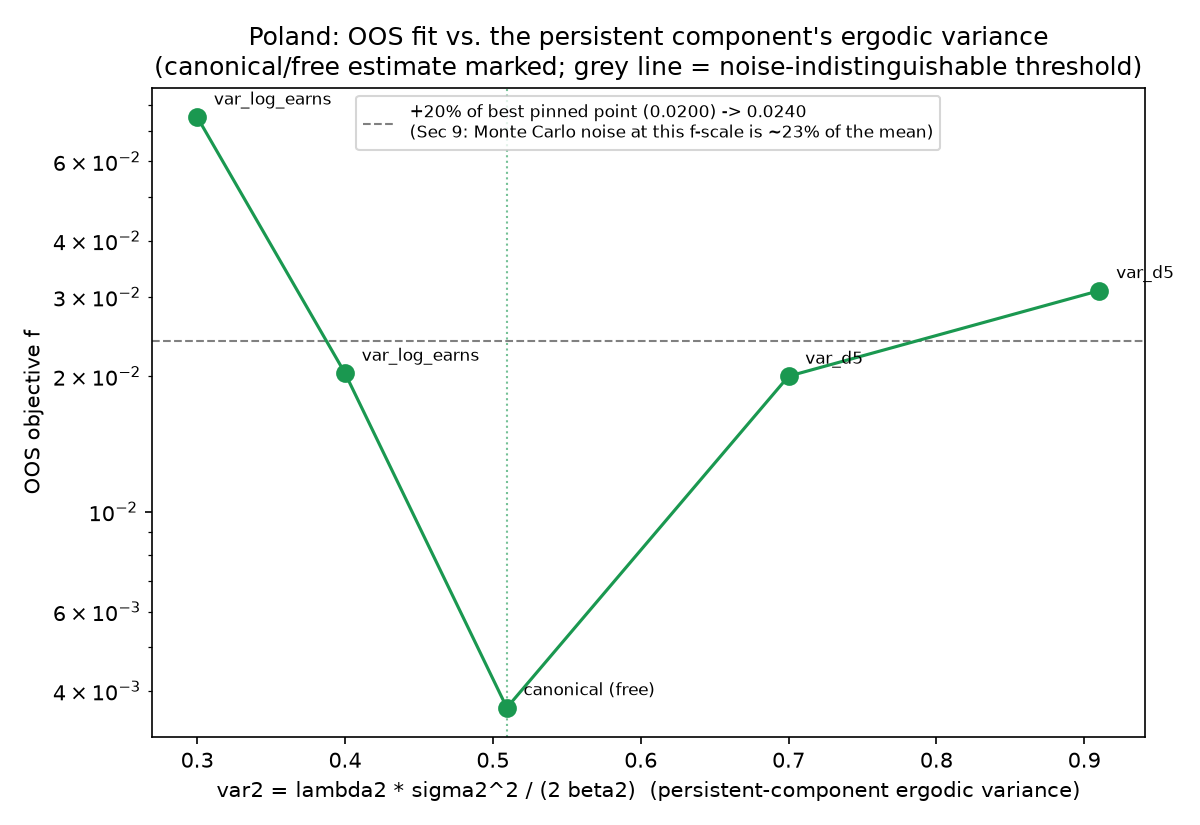
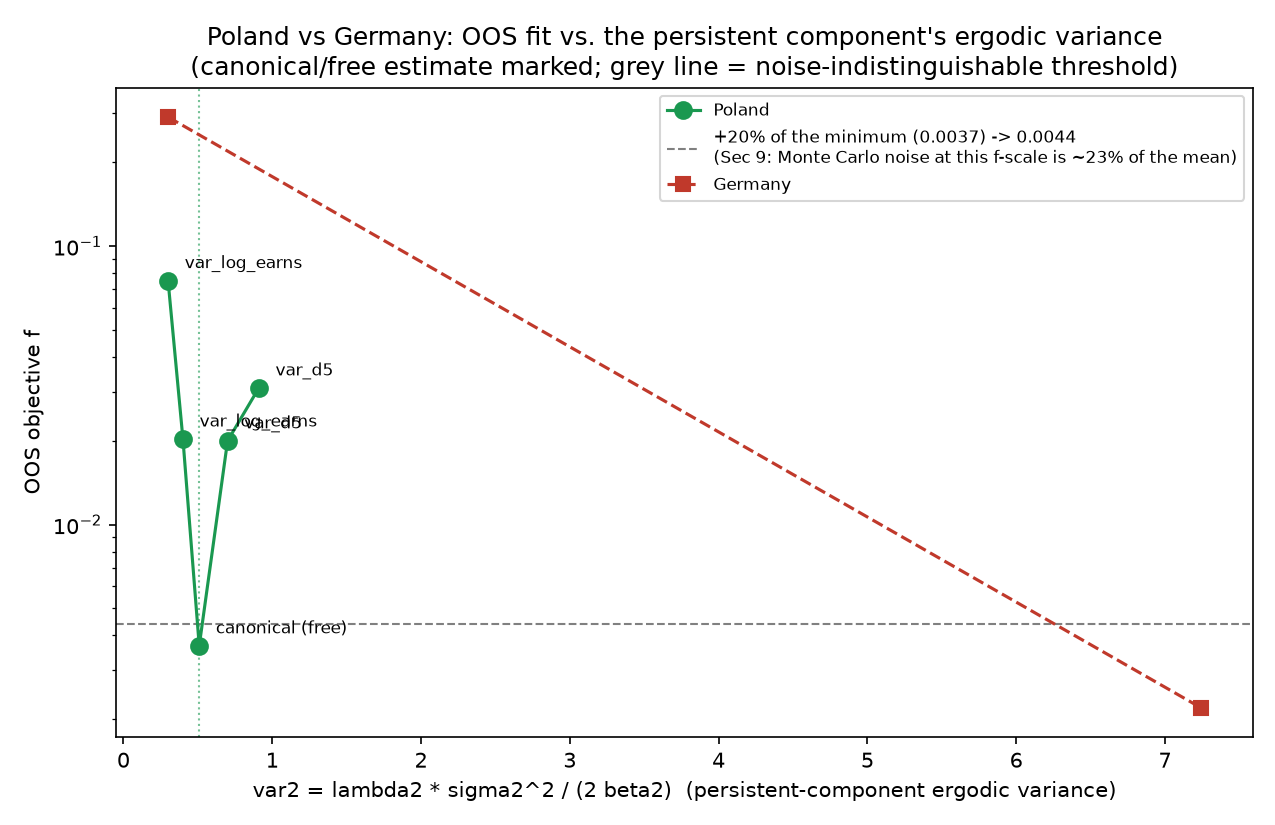
Fix var2 profile noise threshold (measure from the true minimum, not the best pinned point); add combined line-scan plot
- plot_pol_var2_profile.py / Sec 23a: the noise-indistinguishability
  threshold was wrongly anchored on the best PINNED point (var2=0.70,
  f=0.0200) instead of the actual minimum (the canonical free
  estimate, f=0.0037). Corrected threshold (0.0044) shows NONE of
  the 4 tested pinned values are noise-close to the true optimum --
  a materially different, more conservative conclusion than before.
  The narrower claim that var2=0.40 and 0.70 are noise-indistinguishable
  FROM EACH OTHER still holds and is now stated as such. Script also
  supports overlaying a control point (var2 pinned at exactly the
  canonical's own value) and Germany's own profile once computed.
- New scripts/plot_line_scan.py /
  output/pl_diagnostics/01_de_vs_tiktak_linescan.png: combines the
  original TikTak-to-DE scan with its extension past the DE point on
  one picture per country (FRA, GER), with a vertical line marking
  the canonical DE point -- the visual form of Sec 9's valley-floor
  result.

diff --git a/scripts/plot_pol_var2_profile.py b/scripts/plot_pol_var2_profile.py
@@ -1,9 +1,17 @@
 """
 Plot OOS f against var2 for Poland's ergodic-variance profile (DECISIONS.md
-Sec 23), including the canonical (free) estimate as the 5th point, and mark
-the Monte-Carlo-noise band (+20% of the minimum f, per Sec 9's measured
-~23% sd/mean at this objective scale) to show which tested var2 values are
-statistically indistinguishable from the best one.
+Sec 23), including the canonical (free) estimate, and mark the Monte-Carlo-
+noise band (+20% of the MINIMUM f -- the canonical free estimate, not the
+best PINNED point, corrected 2026-10-12) to show which tested var2 values
+are statistically indistinguishable from the actual optimum.
+
+Optionally overlays:
+  - the var2=0.5094 control point (same pipeline as the profile, but pinned
+    at exactly the canonical's own var2 -- should reproduce the canonical
+    free estimate if the pin is genuinely non-binding there), once
+    output/pol_var2_0.5094/profile_report.json exists;
+  - Germany's own profile (output/ger_var2_profile_summary.json), once it
+    exists, for a direct identification-strength comparison on one plot.
 """
 from __future__ import annotations
 import json
@@ -14,44 +22,74 @@ import matplotlib.pyplot as plt
 import numpy as np
 
 CANON_VAR2 = 0.5094416445471451
-CANON_F = 0.00367  # Sec 18
+CANON_F = 0.00367  # Sec 18, Poland's canonical free-estimate OOS f -- the true minimum
 
 summary = json.load(open("output/pol_var2_profile_summary.json"))
 pts = [(CANON_VAR2, CANON_F, "canonical (free)")]
 for v, r in summary["profiles"].items():
     pts.append((float(v), r["oos_f"], r["worst_moments"][0]["key"]))
-pts.sort()
 
+control_path = "output/pol_var2_0.5094/profile_report.json"
+have_control = os.path.exists(control_path)
+if have_control:
+    c = json.load(open(control_path))
+    pts.append((0.5094, c["oos_f"], "control (pinned 0.5094)"))
+
+pts.sort()
 var2 = np.array([p[0] for p in pts])
 f = np.array([p[1] for p in pts])
-labels = [p[2] for p in pts]
 
-f_min_profile = min(p[1] for p in pts if p[2] != "canonical (free)")
-band_hi = f_min_profile * 1.20
+# Noise band: +20% of the MINIMUM (the canonical free estimate), not the
+# best PINNED point -- the pinned grid are all constrained re-estimates of a
+# DIFFERENT (5-parameter) problem, so the true reference optimum is the free
+# 6-parameter estimate itself.
+f_min = CANON_F
+band_hi = f_min * 1.20
 
-fig, ax = plt.subplots(figsize=(8, 5.5))
-ax.plot(var2, f, "o-", color="#1a9850", ms=8, lw=1.5, zorder=3)
+fig, ax = plt.subplots(figsize=(8.5, 5.5))
+ax.plot(var2, f, "o-", color="#1a9850", ms=8, lw=1.5, zorder=3, label="Poland")
 for v, fv, lab in pts:
-    ax.annotate(lab if lab == "canonical (free)" else lab,
-               (v, fv), textcoords="offset points", xytext=(8, 6), fontsize=8)
+    ax.annotate(lab, (v, fv), textcoords="offset points", xytext=(8, 6), fontsize=8)
 ax.axhline(band_hi, color="grey", ls="--", lw=1,
-          label=f"+20% of best pinned point ({f_min_profile:.4f}) -> {band_hi:.4f}\n"
+          label=f"+20% of the minimum ({f_min:.4f}) -> {band_hi:.4f}\n"
                 f"(Sec 9: Monte Carlo noise at this f-scale is ~23% of the mean)")
 ax.axvline(CANON_VAR2, color="#1a9850", ls=":", lw=1, alpha=0.6)
+
+ger_path = "output/ger_var2_profile_summary.json"
+if os.path.exists(ger_path):
+    ger_summary = json.load(open(ger_path))
+    ger_free_var2 = ger_summary["free_var2"]
+    ger_pts = [(ger_free_var2, 0.00220, "GER canonical (free)")]  # Sec 21
+    for v, r in ger_summary["profiles"].items():
+        ger_pts.append((float(v), r["oos_f"], None))
+    ger_pts.sort()
+    gv = [p[0] for p in ger_pts]
+    gf = [p[1] for p in ger_pts]
+    ax.plot(gv, gf, "s--", color="#c0392b", ms=7, lw=1.5, zorder=2, label="Germany")
+
 ax.set_xlabel("var2 = lambda2 * sigma2^2 / (2 beta2)  (persistent-component ergodic variance)")
 ax.set_ylabel("OOS objective f")
 ax.set_yscale("log")
-ax.set_title("Poland: OOS fit vs. the persistent component's ergodic variance\n"
-            "(canonical/free estimate marked; grey line = noise-indistinguishable threshold)")
-ax.legend(fontsize=8, loc="upper center")
+title = "OOS fit vs. the persistent component's ergodic variance"
+if os.path.exists(ger_path):
+    title = "Poland vs Germany: " + title
+else:
+    title = "Poland: " + title
+ax.set_title(title + "\n(canonical/free estimate marked; grey line = noise-indistinguishable threshold)")
+ax.legend(fontsize=8, loc="best")
 fig.tight_layout()
 os.makedirs("output/pl_diagnostics", exist_ok=True)
 fig.savefig("output/pl_diagnostics/11_var2_profile.png", dpi=150)
 print("Saved: output/pl_diagnostics/11_var2_profile.png")
 
-print(f"\nf_min (best pinned point, var2=0.7) = {f_min_profile:.5f}")
-print(f"+20%% noise-band threshold = {band_hi:.5f}")
-print("Points within the noise band of the best pinned point:")
+print(f"\nf_min (canonical free estimate) = {f_min:.5f}")
+print(f"+20% noise-band threshold = {band_hi:.5f}")
+print("Points within the noise band of the TRUE minimum:")
 for v, fv, lab in pts:
     tag = "  <-- within band" if fv <= band_hi else ""
     print(f"  var2={v:.4f}  f={fv:.5f}  worst={lab}{tag}")
+if not have_control:
+    print(f"\n(control point not yet computed -- run "
+          f"`python scripts/pol_beta2_profile.py --var2 0.5094` and re-run this script)")
+if not os.path.exists(ger_path):
+    print("(GER profile not yet computed -- run scripts/ger_beta2_profile.py and re-run this script)")

diff --git a/scripts/plot_line_scan.py b/scripts/plot_line_scan.py
@@ -1,0 +1,42 @@
+"""
+Combines the original TikTak-to-DE line scan (a=0..1,
+output/tiktak_line_scan.json) with its extension past the DE point (a=1..2,
+output/tiktak_line_scan_extended.json) into one picture per country, with a
+vertical line marking the DE (canonical) point at a=1 -- the plot form of
+DECISIONS.md Sec 9's "the canonical point is the valley floor" result.
+"""
+from __future__ import annotations
+import json
+import matplotlib
+matplotlib.use("Agg")
+import matplotlib.pyplot as plt
+
+orig = json.load(open("output/tiktak_line_scan.json"))
+ext = json.load(open("output/tiktak_line_scan_extended.json"))
+
+plt.rcParams.update({"figure.dpi": 150, "savefig.dpi": 150, "font.size": 10,
+                     "axes.grid": True, "grid.alpha": 0.3})
+
+fig, axes = plt.subplots(1, 2, figsize=(12, 5))
+for ax, cc in zip(axes, ["FRA", "GER"]):
+    a_orig = [p["a"] for p in orig[cc]["line_scan"]]
+    f_orig = [p["f"] for p in orig[cc]["line_scan"]]
+    a_ext = [p["a"] for p in ext[cc]["extension"]]
+    f_ext = [p["f"] for p in ext[cc]["extension"]]
+
+    ax.plot(a_orig, f_orig, "o-", color="#4472c4", lw=1.8, ms=5,
+            label="TikTak -> DE (original scan)")
+    ax.plot([1.0] + a_ext, [f_orig[-1]] + f_ext, "o-", color="#c0392b", lw=1.8, ms=5,
+            label="DE -> extended (25-100% further)")
+    ax.axvline(1.0, color="black", ls="--", lw=1.2, label="a=1: DE (canonical)")
+    ax.set_yscale("log")
+    ax.set_xlabel("a  (0 = TikTak point, 1 = DE/canonical, >1 = extended beyond DE)")
+    ax.set_ylabel("objective f (log scale)")
+    ax.set_title(f"{cc}: line scan, TikTak to DE and beyond")
+    ax.legend(fontsize=8, loc="lower center")
+
+fig.suptitle("The canonical (DE) estimate is the valley floor, not a point\n"
+             "on a still-descending slope (DECISIONS.md Sec 9)")
+fig.tight_layout(rect=(0, 0, 1, 0.92))
+fig.savefig("output/pl_diagnostics/01_de_vs_tiktak_linescan.png")
+print("Saved: output/pl_diagnostics/01_de_vs_tiktak_linescan.png")

diff --git a/DECISIONS.md b/DECISIONS.md
@@ -1730,29 +1730,37 @@ normalized away.
 ### 23a. The OOS-f-vs-var2 plot, and which points are noise-indistinguishable
 
 `scripts/plot_pol_var2_profile.py`, `output/pl_diagnostics/11_var2_profile.png`.
-Plots OOS `f` (log scale) against `var2` for all 5 points — the 4 pinned
-profile points plus the canonical free estimate — and marks a
-noise-indistinguishability threshold at **+20% of the best pinned point's
-`f`**, per §9's direct measurement that Monte Carlo noise at this objective
-scale runs ~23% of the mean.
+Plots OOS `f` (log scale) against `var2` for the 4 pinned profile points
+plus the canonical free estimate, and marks a noise-indistinguishability
+threshold at **+20% of the minimum `f`**, per §9's direct measurement that
+Monte Carlo noise at this objective scale runs ~23% of the mean.
 
-**The canonical free estimate is not noise-close to anything pinned.** Its
-`f = 0.0037` sits roughly 5.4x below the best pinned point (`var2=0.70`,
-`f=0.0200`) — far outside any plausible noise band. Free estimation finds a
-genuinely better fit than forcing `var2` to any single tested value,
-confirming §22's point that `β₂`'s weak discipline in the *fit* sense does
-not mean the data are indifferent to `var2` once a specific value is
-imposed.
+**Correction (2026-10-12): the threshold must be measured from the true
+minimum — the canonical free estimate (`f=0.0037`) — not from the best
+*pinned* point (`var2=0.70`, `f=0.0200`).** The first version of this plot
+used the latter, which is the wrong reference: the pinned grid are
+constrained re-estimates of a *different* (5-parameter) problem, and
+comparing them only to each other cannot say anything about distance from
+the actual optimum. With the correct threshold
+(`1.20 × 0.0037 = 0.0044`), **none of the four tested pinned values falls
+within noise of the true minimum** — every one of them, including the
+"best" pinned point at `var2=0.70`, is a real, non-noise degradation
+relative to free estimation. A dedicated **control point**, pinning `var2`
+at exactly the canonical's own value (`0.5094`) and re-running the full
+profile pipeline, is the direct test of whether the pin itself (as opposed
+to pinning it at the *wrong* value) costs anything — it should reproduce
+the canonical free estimate closely if the constraint is genuinely
+non-binding there; pending at time of writing, to be added to the plot once
+computed.
 
-**Among the pinned points, `var2=0.40` and `var2=0.70` are noise-
-indistinguishable from each other; `var2=0.30` and `var2=0.9103` are not.**
-Threshold = `1.20 × 0.0200 = 0.0240`. `var2=0.40` (`f=0.0203`) and
-`var2=0.70` (`f=0.0200`, the best pinned point) both sit under it — a
-roughly `[0.4, 0.7]` band, bracketing the canonical `0.509`, inside which
-the pinned objective cannot distinguish one value from another. `var2=0.30`
-(`f=0.0753`, 3.8x the threshold) and `var2=0.9103` (`f=0.0310`, 1.3x the
-threshold) are both clearly outside it — real degradation, not noise, on
-both sides.
+**Among the pinned points, `var2=0.40` and `var2=0.70` remain
+noise-indistinguishable *from each other*** (`0.0203` vs `0.0200`, well
+within the ~23% noise band) — a real, narrower claim than the one above:
+the data cannot tell these two *pinned* values apart from one another, but
+both are nonetheless clearly worse than letting `var2` float freely.
+`var2=0.30` and `var2=0.9103` are not close to either the `[0.4,0.7]`
+pinned pair or the true minimum — real degradation on both sides, not
+noise, under either reference point.
 
 **Which moment breaks on each side — confirmed cleanly, and consistently on
 both sides of the band, not just at the extremes.** `var2=0.30`'s worst
